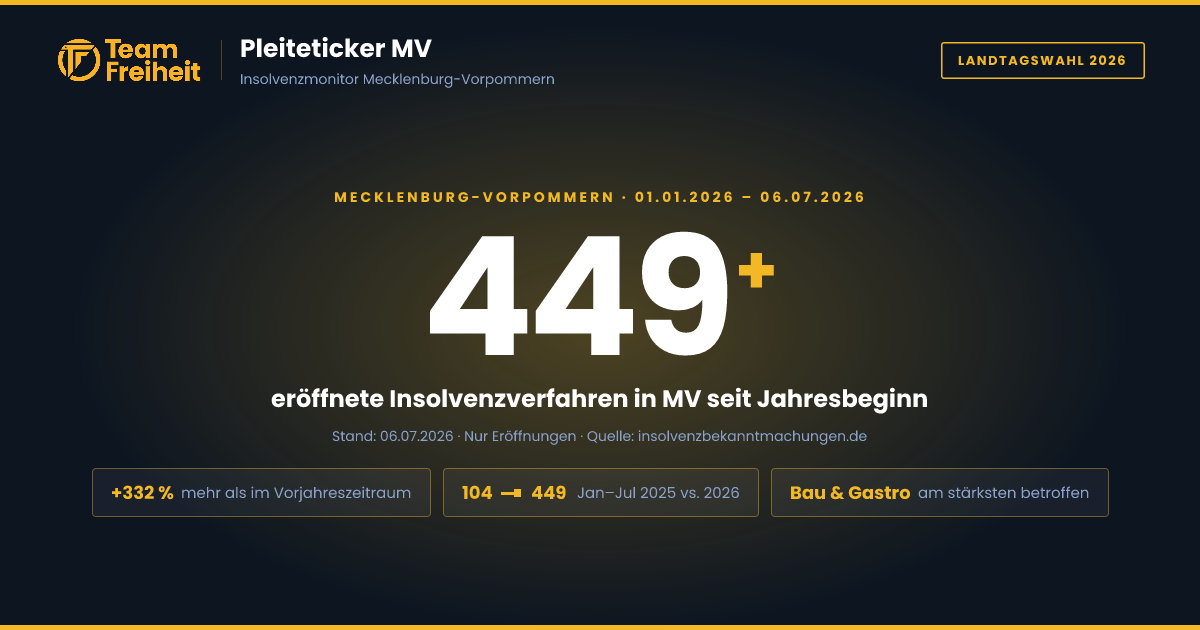
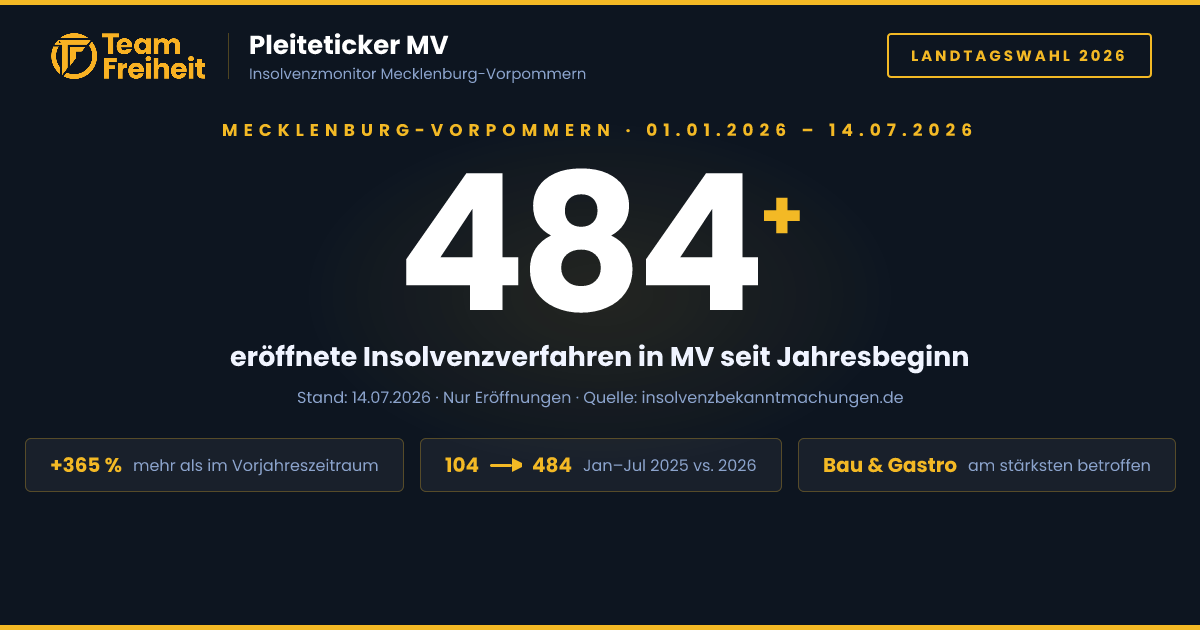
Update Insolvenzdaten KW 28

diff --git a/index.html b/index.html
@@ -1,4 +1,4 @@
-<!-- redeploy-trigger: 2026-07-06 -->
+<!-- redeploy-trigger: 2026-07-14 -->
 <!DOCTYPE html>
 <html lang="de">
 <head>
@@ -6,7 +6,7 @@
 <meta name="viewport" content="width=device-width, initial-scale=1.0">
 <meta property="og:image" content="https://pleiteticker-mv.vercel.app/og-image.png">
 <meta property="og:title" content="Pleiteticker MV – Team Freiheit">
-<meta property="og:description" content="449 Insolvenzeröffnungen in MV seit Januar 2026 – +332 % gegenüber 2025">
+<meta property="og:description" content="484 Insolvenzeröffnungen in MV seit Januar 2026 – +365 % gegenüber 2025">
 <meta property="og:url" content="https://pleiteticker-mv.vercel.app">
 <meta property="og:type" content="website">
 <link rel="icon" type="image/png" href="favicon.png">
@@ -160,7 +160,7 @@ footer a { color:var(--grau); text-decoration:underline; }
 </div>
 
 <div class="hero">
-<div class="hero-eye">Mecklenburg-Vorpommern · 01.01.2026 – 06.07.2026</div>
+<div class="hero-eye">Mecklenburg-Vorpommern · 01.01.2026 – 14.07.2026</div>
 <div class="ctr-wrap">
 <div class="ctr-num" id="mainCtr">0</div>
 <div class="ctr-plus">+</div>
@@ -168,8 +168,8 @@ footer a { color:var(--grau); text-decoration:underline; }
 <div class="hero-lbl">eröffnete Insolvenzverfahren in MV seit Jahresbeginn</div>
 <div class="hero-sub">Stand: <span id="standDatum">–</span> · Nur Eröffnungen · Wöchentlich aktualisiert · Quelle: insolvenzbekanntmachungen.de</div>
 <div class="pills">
-<div class="pill"><span class="pv">+332 %</span><span class="pl">mehr als im Vorjahreszeitraum</span></div>
-<div class="pill"><span class="pv">104 → 449</span><span class="pl">Jan–Jul 2025 vs. 2026</span></div>
+<div class="pill"><span class="pv">+365 %</span><span class="pl">mehr als im Vorjahreszeitraum</span></div>
+<div class="pill"><span class="pv">104 → 484</span><span class="pl">Jan–Jul 2025 vs. 2026</span></div>
 <div class="pill"><span class="pv">Bau & Gastro</span><span class="pl">am stärksten betroffen</span></div>
 </div>
 <div class="upd-row">
@@ -182,7 +182,7 @@ Nächste Aktualisierung: Freitag Nachmittag
 <div class="breaking-inner">
 <div class="breaking-tag">⚠️ Anhaltend hoch</div>
 <div class="breaking-text">
-<strong>449 Eröffnungen seit Jahresbeginn</strong> — 2026 hat das gesamte Jahr 2025 (192 Fälle) bereits deutlich übertroffen. <strong>+332 % gegenüber dem Vorjahreszeitraum.</strong> Allein diese Woche (KW 27): 59 neue Fälle. MV erlebt eine der schwersten Insolvenzwellen seit Jahren.
+<strong>484 Eröffnungen seit Jahresbeginn</strong> — 2026 hat das gesamte Jahr 2025 (192 Fälle) bereits mehr als verdoppelt. <strong>+365 % gegenüber dem Vorjahreszeitraum.</strong> Allein diese Woche (KW 28): 35 neue Fälle. MV erlebt eine der schwersten Insolvenzwellen seit Jahren.
 </div>
 </div>
 </div>
@@ -208,11 +208,11 @@ Vollständige Liste: <a href="https://neu.insolvenzbekanntmachungen.de" target="
 <div class="card">
 <div class="ch">Jahresvergleich · Eröffnungen MV · insolvenzbekanntmachungen.de</div>
 <div class="bars">
-<div class="bar-row"><div class="bar-yr">2022</div><div class="bar-outer"><div class="bar-inner bold" data-w="22">101</div></div></div>
-<div class="bar-row"><div class="bar-yr">2023</div><div class="bar-outer"><div class="bar-inner bprev" data-w="32">143</div></div></div>
-<div class="bar-row"><div class="bar-yr">2024</div><div class="bar-outer"><div class="bar-inner bprev" data-w="27">122</div></div></div>
-<div class="bar-row"><div class="bar-yr">2025</div><div class="bar-outer"><div class="bar-inner bprev" data-w="43">192</div></div></div>
-<div class="bar-row"><div class="bar-yr">2026</div><div class="bar-outer"><div class="bar-inner bcur" data-w="100">449 (seit 01.01.) +332%</div></div></div>
+<div class="bar-row"><div class="bar-yr">2022</div><div class="bar-outer"><div class="bar-inner bold" data-w="21">101</div></div></div>
+<div class="bar-row"><div class="bar-yr">2023</div><div class="bar-outer"><div class="bar-inner bprev" data-w="30">143</div></div></div>
+<div class="bar-row"><div class="bar-yr">2024</div><div class="bar-outer"><div class="bar-inner bprev" data-w="25">122</div></div></div>
+<div class="bar-row"><div class="bar-yr">2025</div><div class="bar-outer"><div class="bar-inner bprev" data-w="40">192</div></div></div>
+<div class="bar-row"><div class="bar-yr">2026</div><div class="bar-outer"><div class="bar-inner bcur" data-w="100">484 (seit 01.01.) +365%</div></div></div>
 </div>
 </div>
 
@@ -220,9 +220,9 @@ Vollständige Liste: <a href="https://neu.insolvenzbekanntmachungen.de" target="
 <div class="ch">Zahlen & Fakten</div>
 <div class="facts">
 <div class="fact"><div class="fl">Eröffnungen Jan–Jul 2025</div><div class="fv fd">104 Verfahren</div></div>
-<div class="fact"><div class="fl">Eröffnungen Jan–Jul 2026</div><div class="fv fg">449 Verfahren</div></div>
-<div class="fact"><div class="fl">Anstieg ggü. Vorjahr</div><div class="fv fg">+332 %</div></div>
-<div class="fact"><div class="fl">Vergleich zu Gesamtjahr 2025 (192)</div><div class="fv fg">449 – bereits übertroffen</div></div>
+<div class="fact"><div class="fl">Eröffnungen Jan–Jul 2026</div><div class="fv fg">484 Verfahren</div></div>
+<div class="fact"><div class="fl">Anstieg ggü. Vorjahr</div><div class="fv fg">+365 %</div></div>
+<div class="fact"><div class="fl">Vergleich zu Gesamtjahr 2025 (192)</div><div class="fv fg">484 – bereits übertroffen</div></div>
 <div class="fact"><div class="fl">Stärkste Branche</div><div class="fv fd">Baugewerbe</div></div>
 </div>
 </div>
@@ -264,23 +264,23 @@ Alle Verfahren: <a href="https://neu.insolvenzbekanntmachungen.de" target="_blan
 
 <script>
 const DATA = {
-verfahren: 449,
-stand: "06.07.2026",
+verfahren: 484,
+stand: "14.07.2026",
 
 woche: {
-label: "KW 27 · 29.06.–05.07.2026",
-anzahl: 59,
+label: "KW 28 · 06.–12.07.2026",
+anzahl: 35,
 faelle: [
-{ name: "Baltic Blue Development GmbH", ort: "Wolgast", branche: "Baugewerbe" },
-{ name: "ASTA-Bau GmbH", ort: "Bargensdorf", branche: "Baugewerbe" },
-{ name: "K&K Gastro GmbH", ort: "Rostock", branche: "Gastgewerbe" },
-{ name: "MAT Mecklenburger Agrartechnik GmbH & Co. KG", ort: "Groß Stieten", branche: "Landwirtschaft" },
-{ name: "Spirit of Rügen GmbH", ort: "Sassnitz", branche: "Gastgewerbe" },
-{ name: "BeSTT Beyer Service Transport und Technik GmbH", ort: "Rostock", branche: "Dienstleistung" },
-{ name: "Minchev, Hristo Detelinov", ort: "Schwerin", branche: "Privatinsolvenz" },
-{ name: "Anspichler, Daniel", ort: "Ludwigslust", branche: "Privatinsolvenz" },
-{ name: "Zanahi, Addnan", ort: "Hagenow", branche: "Privatinsolvenz" },
-{ name: "Kehrberg, Hannelore", ort: "Schwerin", branche: "Privatinsolvenz" },
+{ name: "MPT Protection GmbH", ort: "Sponholz", branche: "Sicherheitsdienst" },
+{ name: "DREILAUT UG (haftungsbeschränkt)", ort: "Schwerin", branche: "Baugewerbe" },
+{ name: "Winter, Thilo", ort: "Rostock", branche: "Privatinsolvenz" },
+{ name: "Erkelenz, Andreas", ort: "Groß Miltzow", branche: "Privatinsolvenz" },
+{ name: "Hartig, Marcel", ort: "Schwerin", branche: "Privatinsolvenz" },
+{ name: "Mikayelyan, Hovannes", ort: "Ludwigslust", branche: "Privatinsolvenz" },
+{ name: "Gladrow, Karin Renate Ruth", ort: "Sundhagen", branche: "Privatinsolvenz" },
+{ name: "Franca, Muhamed", ort: "Cölpin", branche: "Privatinsolvenz" },
+{ name: "Schleede, Sven", ort: "Neustrelitz", branche: "Privatinsolvenz" },
+{ name: "Kohn, Nick Fritz Erwin Heinrich", ort: "Neustrelitz", branche: "Privatinsolvenz" },
 ]
 },
 
@@ -295,16 +295,17 @@ bigFaelle: [
 { name: "Revo Hospitality Group", ort: "Schwerin, Rostock, Rügen, Stralsund, Wismar, Neustadt-Glewe", datum: "April 2026", info: "6 Hotels in MV betroffen · Eigenverwaltung beantragt", branche: "Gastgewerbe" },
 { name: "BLF Schweineaufzucht GmbH + MV Babyporc GmbH", ort: "Landkreis Rostock & Mecklenburgische Seenplatte", datum: "April 2026", info: "5 Betriebsteile · 28 Mitarbeiter · Biogasanlage mitbetroffen", branche: "Landwirtschaft" },
 { name: "AMEX Hausbau GmbH", ort: "Jürgenshagen", datum: "25.03.2026", info: "Bauunternehmen insolvent", branche: "Baugewerbe" },
+{ name: "Mecklenburger Backstuben GmbH", ort: "Waren (Müritz)", datum: "02.03.2026", info: "Traditionsbäckerei · ca. 400 Mitarbeiter · 50+ Filialen · Insolvenz in Eigenverwaltung", branche: "Lebensmittel" },
 ],
 
 ticker: [
+{ name: "Buchin, Babette", ort: "Güstrow", branche: "Privatinsolvenz" },
+{ name: "Erkelenz, Andreas", ort: "Groß Miltzow", branche: "Privatinsolvenz" },
+{ name: "MPT Protection GmbH", ort: "Sponholz", branche: "Sicherheitsdienst" },
+{ name: "Winter, Thilo", ort: "Rostock", branche: "Privatinsolvenz" },
 { name: "DREILAUT UG (haftungsbeschränkt)", ort: "Schwerin", branche: "Baugewerbe" },
-{ name: "Schleede, Sven", ort: "Neustrelitz", branche: "Privatinsolvenz" },
+{ name: "Mecklenburger Backstuben GmbH", ort: "Waren (Müritz)", branche: "Lebensmittel" },
 { name: "Baltic Blue Development GmbH", ort: "Wolgast", branche: "Baugewerbe" },
-{ name: "Hornet Service GmbH", ort: "Stralsund", branche: "Dienstleistung" },
-{ name: "Sommer & Sommer UG", ort: "Ostseebad Boltenhagen", branche: "Dienstleistung" },
-{ name: "ASTA-Bau GmbH", ort: "Bargensdorf", branche: "Baugewerbe" },
-{ name: "MAT Mecklenburger Agrartechnik GmbH & Co. KG", ort: "Groß Stieten", branche: "Landwirtschaft" },
 { name: "K&K Gastro GmbH", ort: "Rostock", branche: "Gastgewerbe" },
 ]
 };